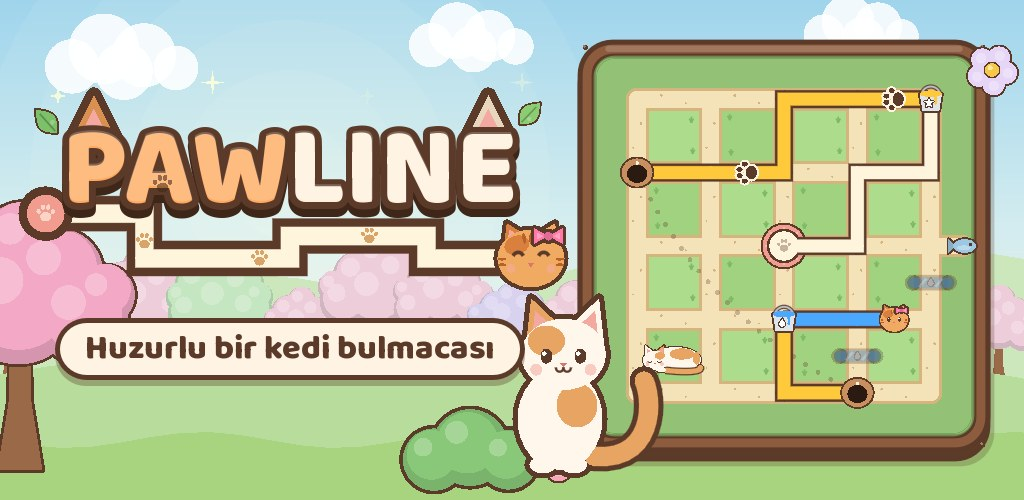
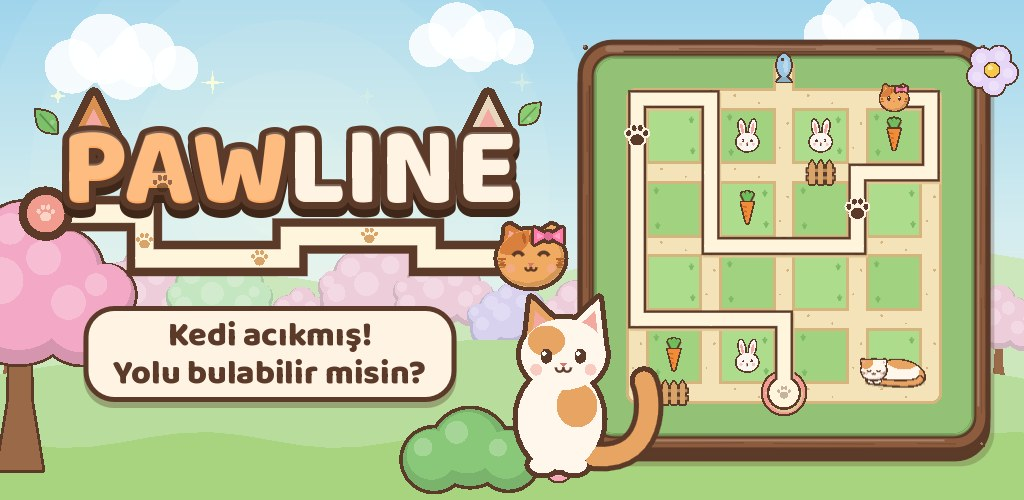
0.21.0: yeni görünüşle oyun ekranları, tanıtım görseli ve kediler; ekran açıklamaları güncellendi

diff --git a/index.html b/index.html
@@ -99,11 +99,11 @@
       <h2><span lang="tr">Bahçeye bir göz at</span><span lang="en">Take a peek</span></h2>
       <p class="sub"><span lang="tr">Her şey elle çizilmiş gibi: pastel bahçeler, tahta çitler, uykucu kediler.</span><span lang="en">Pastel gardens, wooden fences and sleepy cats, all drawn with love.</span></p>
       <div class="gallery" tabindex="0" aria-label="Ekran görüntüleri / Screenshots">
-        <figure class="shot"><div class="frame"><img loading="lazy" src="img/ekran_boya.webp" width="540" height="960" alt="Oyun ekranı: boya kovasından geçen pembe çizgi, renkli kapılar ve çizginin ucunda kedi" data-alt-en="Game screen: a pink line passing a paint bucket, colored gates and the cat at the tip of the line"></div>
+        <figure class="shot"><div class="frame"><img loading="lazy" src="img/ekran_boya.webp" width="540" height="960" alt="Oyun ekranı: boya kovalarından geçen mavi ve sarı çizgi, fare delikleri, çiçekler ve çizginin ucunda kedi" data-alt-en="Game screen: a blue and yellow line passing paint buckets, mouse holes, flowers and the cat at the tip of the line"></div>
           <figcaption><span lang="tr">Boya kovaları ve renkli kapılar</span><span lang="en">Paint buckets and colored gates</span></figcaption></figure>
         <figure class="shot"><div class="frame"><img loading="lazy" src="img/ekran_kural.webp" width="540" height="960" alt="Kural kartı: minik bir örnek tahta, kartın üstünde oturan bir kedi ve kuralın kısa açıklaması" data-alt-en="Rule card: a tiny example board, a cat sitting on the card and a short explanation of the rule"></div>
           <figcaption><span lang="tr">Her bahçede yeni bir kural</span><span lang="en">A new rule in every garden</span></figcaption></figure>
-        <figure class="shot"><div class="frame"><img loading="lazy" src="img/ekran_bostan.webp" width="540" height="960" alt="Oyun ekranı: çiçekler, tavşanlar ve havuçlarla dolu bir bahçe tahtası" data-alt-en="Game screen: a garden board with flowers, bunnies and carrots"></div>
+        <figure class="shot"><div class="frame"><img loading="lazy" src="img/ekran_bostan.webp" width="540" height="960" alt="Oyun ekranı: tavşanlar, havuçlar, pati izleri ve uyuyan bir kediyle bir bahçe tahtası" data-alt-en="Game screen: a garden board with bunnies, carrots, paw prints and a sleeping cat"></div>
           <figcaption><span lang="tr">Çiçekler, tavşanlar ve havuçlar</span><span lang="en">Flowers, bunnies and carrots</span></figcaption></figure>
         <figure class="shot"><div class="frame"><img loading="lazy" src="img/ekran_kutlama.webp" width="540" height="960" alt="Çözüm ekranı: kedi balığını yemiş, kazanılan kedi parası sayılıyor" data-alt-en="Solved screen: the cat has eaten its fish and the earned cat coins are counted"></div>
           <figcaption><span lang="tr">Çöz, kedi parası kazan</span><span lang="en">Solve it, earn cat coins</span></figcaption></figure>
